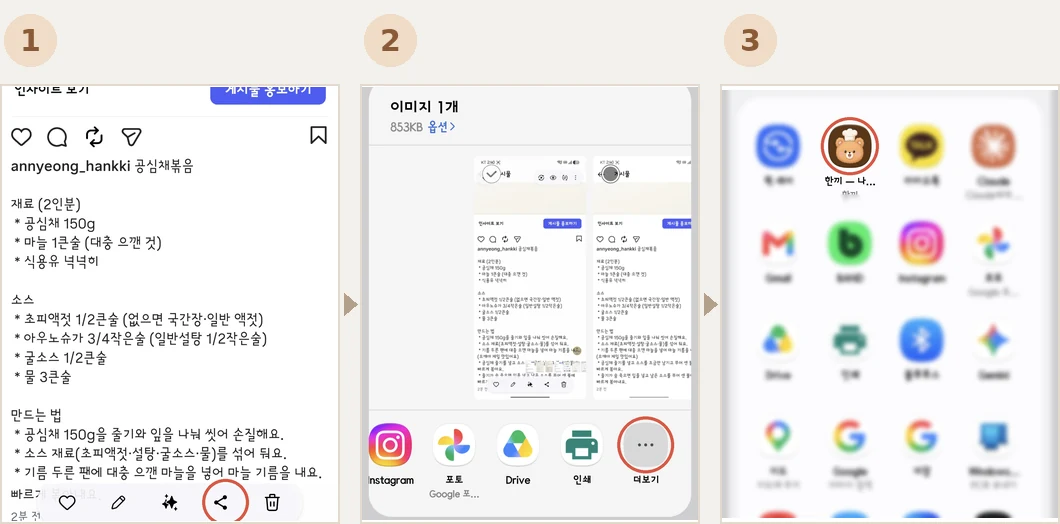
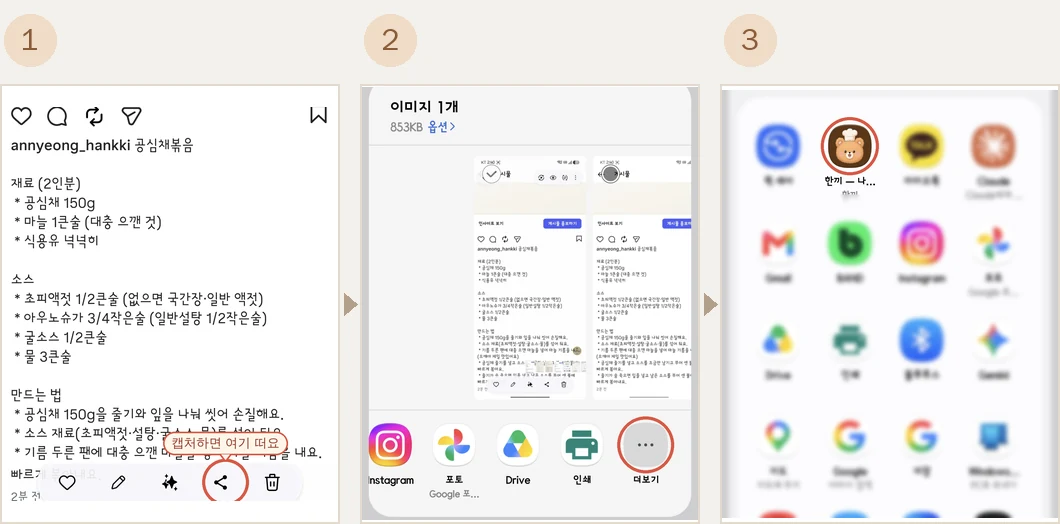
안내 1번 칸 마무리 — 인사이트 줄 빼고 말풍선 달기
창업자 = "1번 인사이트보기 지우자;;"
       · "1번에 캡쳐 하면 아래 공유버튼이 뜬다는거 말풍선같은걸로 적을까."
       → "1번칸 된 것 같아."

⛔ 「인사이트 보기 · 게시물 홍보하기」는 **글 올린 사람에게만 보이는 줄**이다.
   유저 화면엔 없는 것을 안내에 넣으면 「내 화면엔 왜 없지?」가 된다.
   자르기 시작을 640 → 770 으로 내렸다.

💬 말풍선 「캡처하면 여기 떠요」 — 꼬리가 공유 단추를 가리킨다.
   ⭐ 그림만으로는 «언제» 그 띠가 뜨는지 모른다. 캡처 직후에만 잠깐 뜬다.
      그 한 마디가 없으면 인스타 화면을 아무리 봐도 그 띠를 못 찾는다.

⚠ 한글 폰트는 이 컨테이너에 wqy-zenhei 하나뿐이다.
   fonts-japanese-gothic 은 truetype() 이 «열리는데» 한글이 두부로 나온다.
   열린다고 믿지 말고 실제로 그려 보고 골라야 한다(규칙 21).

build 0 · smoke 0

diff --git a/hankki/scripts/_판-가져오기안내컷-0828.py b/hankki/scripts/_판-가져오기안내컷-0828.py
@@ -47,6 +47,9 @@ from PIL import Image, ImageDraw, ImageFilter, ImageFont
 갈래 = sys.argv[3] if len(sys.argv) > 3 else 'share'
 
 # 📁 창업자 폰 캡처 (2026-08-28)
+# ⛔ 자르기 시작을 640 → **770** 으로 내렸다 — 창업자 *"1번 인사이트보기 지우자;;"*
+#    「인사이트 보기 · 게시물 홍보하기」는 **글 올린 사람에게만 보이는 줄**이다.
+#    유저 화면엔 없는 것을 안내에 넣으면 「내 화면엔 왜 없지?」가 된다.
 인스타깨끗 = f'{원본}/fbef5ea5-image.jpg'   # 도구 띠가 «없는» 깨끗한 인스타 게시물 (글이 다 읽힌다)
 인스타띠 = f'{원본}/9824a71f-image.jpg'   # 그 화면 아래 도구 띠 — 여기 「공유」가 있다
 인스타시트 = f'{원본}/35aae191-image.jpg'  # 그 공유 시트 — 앱 줄 오른쪽 끝에 「더보기」
@@ -111,13 +114,34 @@ def 맞춰넣기(im, w, h):
 
 
 def 폰트(크기):
+    # ⚠ 이 컨테이너엔 한글 폰트가 «하나뿐»이다 — `wqy-zenhei` 만 한글을 그린다.
+    #    ⛔ `fonts-japanese-gothic` 는 이름이 비슷한데 한글이 두부(□)로 나온다.
+    #       그냥 truetype() 이 열린다고 믿으면 안 되고 **실제로 그려 보고** 골라야 한다(규칙 21).
     for p in ('/usr/share/fonts/truetype/nanum/NanumGothicBold.ttf',
+              '/usr/share/fonts/truetype/wqy/wqy-zenhei.ttc',
               '/usr/share/fonts/truetype/dejavu/DejaVuSans-Bold.ttf'):
         try:
             return ImageFont.truetype(p, 크기)
         except OSError:
             continue
     return ImageFont.load_default()
+
+
+def 말풍선(d, cx, 바닥y, 글, 글자=40):
+    """💬 [창업자 2026-08-28] *"1번에 캡쳐 하면 아래 공유버튼이 뜬다는거 말풍선같은걸로 적을까."*
+       ⭐ 그림만으로는 «언제» 그 띠가 뜨는지 모른다 — 캡처한 «직후»에만 잠깐 뜬다.
+          그 한 마디가 없으면 유저는 인스타 화면을 아무리 봐도 그 띠를 못 찾는다.
+       ⛔ 꼬리가 «공유 단추 쪽»을 가리켜야 한다 — 그냥 네모면 무엇에 대한 말인지 안 붙는다."""
+    f = 폰트(글자)
+    tb = d.textbbox((0, 0), 글, font=f)
+    tw, th = tb[2] - tb[0], tb[3] - tb[1]
+    가로여백, 세로여백, 꼬리 = 26, 18, 20
+    w, h = tw + 가로여백 * 2, th + 세로여백 * 2
+    x0, y0 = cx - w // 2, 바닥y - 꼬리 - h
+    d.rounded_rectangle([x0, y0, x0 + w, y0 + h], radius=h // 2, fill=(255, 246, 233), outline=빨강, width=5)
+    d.polygon([(cx - 17, y0 + h - 2), (cx + 17, y0 + h - 2), (cx, 바닥y)], fill=(255, 246, 233))
+    d.line([(cx - 17, y0 + h - 2), (cx, 바닥y), (cx + 17, y0 + h - 2)], fill=빨강, width=5)
+    d.text((x0 + 가로여백 - tb[0], y0 + 세로여백 - tb[1]), 글, font=f, fill=(150, 60, 45))
 
 
 def 띠칸(바탕, 바탕crop, 띠, 띠범위, 표시):
@@ -134,7 +158,9 @@ def 띠칸(바탕, 바탕crop, 띠, 띠범위, 표시):
     im.paste(바, (0, 0)); im.paste(바띠, (0, 바.height))
     cx, cy, r = 표시
     y = 바.height + (cy - ty0)
-    ImageDraw.Draw(im).ellipse([cx - r, y - r, cx + r, y + r], outline=빨강, width=10)
+    d = ImageDraw.Draw(im)
+    d.ellipse([cx - r, y - r, cx + r, y + r], outline=빨강, width=10)
+    말풍선(d, min(cx, 1080 - 300), 바.height - 6, '캡처하면 여기 떠요')
     return im
 
 
@@ -174,9 +200,9 @@ def 목록칸():
 
 if 갈래 == 'gallery':
     # ⭐ 갤러리도 «깨끗한 사진»을 바탕으로 쓴다 — 창업자 캡처의 위쪽엔 작은 미리보기 띠가 겹쳐 있다.
-    칸들 = [띠칸(인스타깨끗, (640, 1900), 갤러리띠, 띠범위_갤러리, 공유_갤러리), 시트칸(갤러리시트), 목록칸()]
+    칸들 = [띠칸(인스타깨끗, (770, 1900), 갤러리띠, 띠범위_갤러리, 공유_갤러리), 시트칸(갤러리시트), 목록칸()]
 else:
-    칸들 = [띠칸(인스타깨끗, (640, 1900), 인스타띠, 띠범위_인스타, 공유_인스타), 시트칸(인스타시트), 목록칸()]
+    칸들 = [띠칸(인스타깨끗, (770, 1900), 인스타띠, 띠범위_인스타, 공유_인스타), 시트칸(인스타시트), 목록칸()]
 
 W, H = 칸폭 * 3 + 틈 * 2, 위여백 + 칸높
 판 = Image.new('RGB', (W, H), 바탕)
